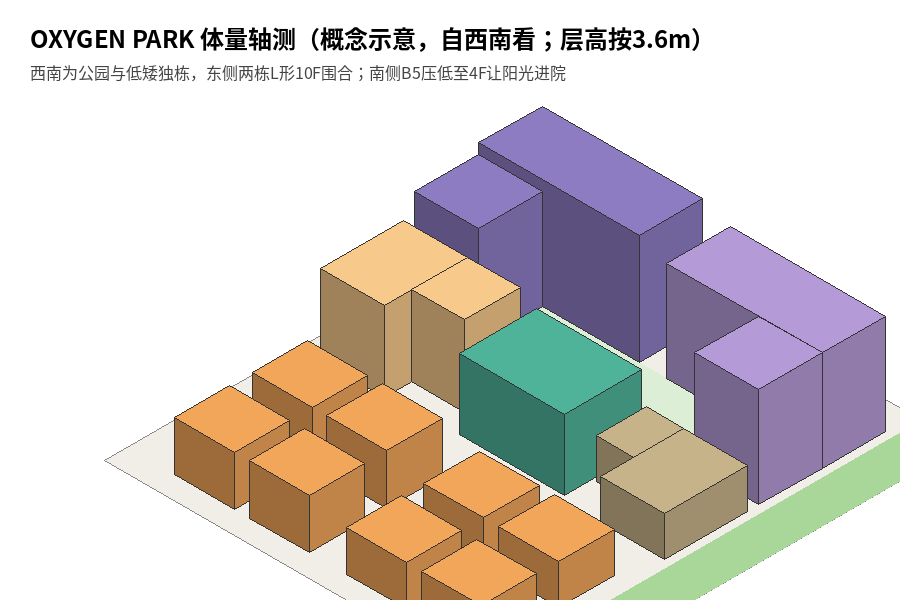
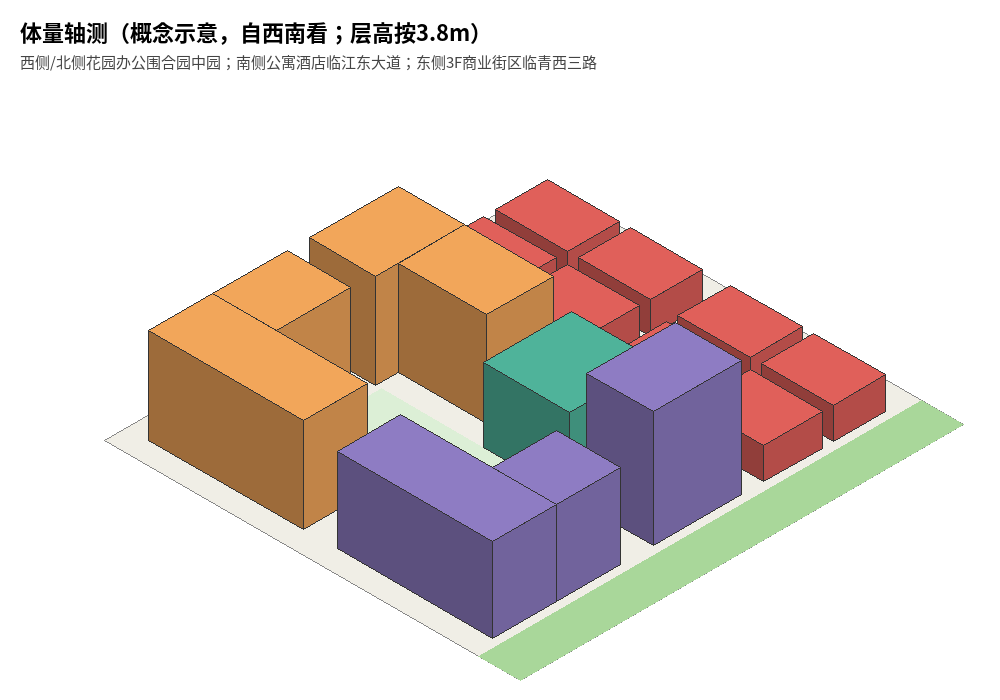
06 plan v2 (west-left orientation)

diff --git a/plan/index.html b/plan/index.html
@@ -1,27 +1,28 @@
-<!doctype html><html lang="zh"><meta charset="utf-8"><meta name="viewport" content="width=device-width"><title>OXYGEN PARK 围合总图</title>
-<style>body{font-family:-apple-system,"PingFang SC",sans-serif;max-width:1100px;margin:auto;padding:20px;line-height:1.7;color:#222}img{max-width:100%;border:1px solid #ddd}table{border-collapse:collapse;width:100%;font-size:14px}td,th{border:1px solid #ccc;padding:4px 6px;text-align:right}td:first-child,th:first-child,td:nth-child(2){text-align:left}.t{display:inline-block;font-size:12px;padding:0 6px;border-radius:3px;color:#fff;margin-right:4px}.f{background:#2b7}.i{background:#e80}.s{background:#36c}</style>
-<h1>OXYGEN PARK 氧气公园 · 围合总图（概念示意）</h1>
-<p><span class="t i">推断</span><b>结论：</b>按手稿方案二镜像（东侧两栋L形、中间三栋、西侧8栋花园独栋），计容 73,500㎡ 正好排下，基底 10,219㎡、建筑密度 42.6%（≤50%），可售 36,000㎡ = 49.0%（压在上限上，没有余量）。本图是体量估算，未校核限高、日照、退线、消防，不是报批方案。</p>
+<!doctype html><html lang="zh"><meta charset="utf-8"><meta name="viewport" content="width=device-width"><title>大江东地块 · 围合方案总图</title>
+<style>body{font-family:-apple-system,"PingFang SC",sans-serif;max-width:1100px;margin:auto;padding:20px;line-height:1.7;color:#222}img{max-width:100%;border:1px solid #ddd}table{border-collapse:collapse;width:100%;font-size:14px}td,th{border:1px solid #ccc;padding:4px 6px;text-align:right}td:first-child,th:first-child,td:nth-child(2),td:nth-child(3){text-align:left}.t{display:inline-block;font-size:12px;padding:0 6px;border-radius:3px;color:#fff;margin-right:4px}.f{background:#2b7}.i{background:#e80}.s{background:#36c}</style>
+<h1>大江东地块 · 围合方案总图（概念示意 v2）</h1>
+<p>v2 按手稿方案二原方向绘制（左西右东，北向上），替换上一版镜像图。主题口号待定。</p>
+<p><span class="t i">推断</span><b>结论：</b>西侧和北侧做花园办公围合，中间围出办公专用的园中园；公寓和酒店放在临江东大道的南侧，大堂和流线都独立；东侧沿青西三路做 3 层商业街区。计容 73,500㎡ 正好排下，基底 11,194㎡、建筑密度 46.6%（≤50%）。可售建议 33,000㎡ = 44.9%（上限是 49%）。本图是体量估算，限高、日照、退线、消防都没有校核。</p>
 <h2>一、总图</h2><img src="images/plan.png">
-<p>手稿朝向：纸面左=东（青西三路）、右=西（公园）；本图已左右镜像为北向上。退线均为假设：南 15m 绿带+3m、东 ≥10m、北 8m、西 ≥8m。</p>
+<p>退线均为假设：南 15m 绿带+3m，东 ≥10m（含商铺临停），北 8m，西 8m。</p>
 <h2>二、体量轴测</h2><img src="images/axo.png">
 <h2>三、分栋面积表（㎡）</h2>
-<table><tr><th>楼栋</th><th>层数 / 基底</th><th>业态分配</th><th>计容</th><th>可售</th></tr>
-<tr><td>D1–D8 花园独栋×8</td><td>西侧4栋5F、4栋4F；每栋 20×21.7m≈434</td><td>平层办公(可售·花园式独栋) 15,624</td><td>15,624</td><td>15,624</td></tr>
-<tr><td>B1 东北L</td><td>北翼11F / 西翼10F；1,863</td><td>沿街底商 2,000｜精品酒店 6,000（约120–150间，按40–50㎡/间）｜长租公寓 8,000｜产业服务/共享办公 3,964</td><td>19,964</td><td>2,000</td></tr>
-<tr><td>B2 东南L</td><td>10F；1,817</td><td>沿街底商 2,600｜自持超市 6,500｜使用权公寓 7,500｜产业服务 1,570</td><td>18,170</td><td>10,100</td></tr>
-<tr><td>B3 北侧Γ形</td><td>8F；1,070</td><td>平层办公(可售，约 1,070㎡/层，可按 800㎡ 整层或半层分割) 6,876｜产业服务 1,684</td><td>8,560</td><td>6,876</td></tr>
-<tr><td>B4 泛健康中心</td><td>7F；1,064</td><td>泛健康中心(目的地锚点，月子/养生朝向公园侧) 7,000｜配套 450</td><td>7,450</td><td>0</td></tr>
-<tr><td>B5 南侧L</td><td>4F；933</td><td>沿街底商 1,400｜配套 1,050｜产业服务 1,282</td><td>3,732</td><td>1,400</td></tr>
-<tr><th>合计</th><th>基底 10,219（密度 42.6%）</th><th></th><th>73,500</th><th>36,000（49.0%）</th></tr></table>
-<p>分业态核对：平层办公 15,624+6,876=22,500；使用权公寓 7,500；底商 2,000+2,600+1,400=6,000；产业服务 3,964+1,570+1,684+1,282=8,500；长租 8,000；酒店 6,000；泛健康 7,000；超市 6,500；配套 450+1,050=1,500；合计 73,500。用地按 160×150=24,000㎡ 计（约数）。</p>
-<h2>四、设计要点</h2><ul>
-<li>西侧公园人行主入口 → 东西向步行轴 → B4 泛健康节点 → 中央庭院 → 青西三路，月子/养生放在 B4 公园一侧。</li>
-<li>3 个车行口：青西三路北、南各一（右进右出接地库），江东大道辅路一处（需交管确认）。商铺临停：江东大道绿带边两处 + 公园边一处。</li>
-<li>青西三路一侧 B1/B2 首层和二层做 2F 展示型底商；南侧 15m 绿带 + "城市氧气屏"垂直绿化立面；B5 压到 4F，让阳光进庭院（借鉴 05 篇 BIG 西南角压低的做法）。</li>
-<li>屋顶跑道环：通过连桥把 B3–B1–B2–B5 屋顶串起来（示意，连桥是否计容待核）。</li></ul>
-<h2>五、江东大道是否走隧道</h2>
-<p><span class="t f">事实</span>江东大道提升改造一期中，蜀山隧道西起河庄大道西、东至青西三路，全长约 2.77km，双向 6 车道；青西三路设快速出入口；青西三路东—青六路西为地面快速路。来源：<a href="https://www.qiantang.gov.cn/art/2022/4/24/art_1658884_58938848.html">钱塘区政府 2022-04-24</a>、<a href="https://hwyst.hangzhou.com.cn/xwfb/content/2021-11/09/content_8091723.htm">杭州网 2021-11-09</a>；2022-06-26 通车：<a href="https://m.thepaper.cn/newsDetail_forward_18723930">澎湃</a>。</p>
-<p><span class="t i">推断</span>本地块在青西三路西侧、江东大道北侧，正好处在蜀山隧道东端。主线大概率在地下或正在爬升出洞，地面是辅路和匝道。洞口和匝道的具体位置没有查到，噪音的实际影响还<b>不确定</b>，要到现场看或调施工图。</p>
-<p><span class="t s">建议</span>现场确认匝道口位置：车行③如果落在匝道段就取消，改成青西三路两个口加北侧一个口。</p>
-<h2>六、缺口</h2><ul><li>没有正式红线、规划条件（限高、退线、日照）；北侧边界是道路还是邻地未知。</li><li>可售 49.0% 已经顶格，再调整只能往下走。</li><li>B3 每层 1,070㎡，和 800㎡ 整层的要求不完全一致，要按半层分割或者调进深。</li></ul>
+<table><tr><th>楼栋</th><th>层数 / 基底</th><th>业态</th><th>计容</th><th>建议可售</th></tr>
+<tr><td>W1 西北L·花园办公</td><td>9F / 1,909</td><td>平层办公 17,181（每层可分为 600–800㎡ 单元）</td><td>17,181</td><td>17,181</td></tr>
+<tr><td>M1 北侧Γ·平层办公</td><td>9F / 1,535</td><td>平层办公 5,319｜产业服务/共享办公 8,500</td><td>13,819</td><td>5,319</td></tr>
+<tr><td>M2 泛健康中心</td><td>7F / 1,000</td><td>泛健康 7,000（正对公园入口节点，月子/养生朝西侧公园）</td><td>7,000</td><td>0</td></tr>
+<tr><td>W2 西南L·酒店/使用权公寓</td><td>8F / 1,822</td><td>精品酒店 6,000（120–150 间）｜使用权公寓 7,500｜大堂底商 500｜配套 572</td><td>14,572</td><td>8,000</td></tr>
+<tr><td>M3 南侧·长租公寓</td><td>11F / 768</td><td>长租公寓 8,000｜配套 448</td><td>8,448</td><td>0</td></tr>
+<tr><td>E1–E8 商业街区×8</td><td>3F / 4,160（4×546+4×494）</td><td>超市 6,500（建议放 E1+E2，必要时连通）｜底商 5,500｜配套 480</td><td>12,480</td><td>2,500</td></tr>
+<tr><th>合计</th><th>基底 11,194｜密度 46.6%</th><th></th><th>73,500</th><th>33,000（44.9%）</th></tr></table>
+<p>分业态核对：平层办公 17,181+5,319=22,500；产业服务 8,500；泛健康 7,000；酒店 6,000；使用权公寓 7,500；长租 8,000；超市 6,500；底商 500+5,500=6,000；配套 572+448+480=1,500；合计 73,500。用地按 160×150=24,000㎡ 估算。</p>
+<p><span class="t s">建议</span>可售怎么压到 44.9%：平层办公 22,500 和使用权公寓 7,500 全部出售；底商 6,000 里只卖 3,000（青西三路临街小铺 2,500 + W2 大堂底商 500），超市旁和街区内部的 3,000 自持统一运营。这样留出约 4 个百分点的余量。如果全卖，可售是 36,000 = 49.0%，正好顶格。</p>
+<h2>四、公寓和办公怎么分开</h2><ul>
+<li><b>位置：</b>长租公寓（M3，11F）和酒店/使用权公寓（W2，8F）都放在南侧临江东大道一线。这一侧噪音大，本来就不适合做花园办公。办公占西侧临公园和北侧的楼。</li>
+<li><b>入口：</b>公寓和酒店的大堂开向南侧江东大道辅路（紫色箭头），车行③是公寓落客口。办公人员从西侧公园入口、东侧商业街和北侧地库进出。</li>
+<li><b>流线：</b>公寓的电动车、外卖、快递从车行③直接下地库，用独立的电梯厅上楼，不经过办公庭院。商业卸货走车行②。</li>
+<li><b>园中园：</b>W1、M1 和 W2 的北端围出办公专用庭院，南边用绿篱加门禁和公寓区隔开。</li>
+<li><b>泛健康：</b>M2 放在公园入口和内街交汇的节点上，办公、公寓和城市人群都能到达，是三类人流的公共接口。</li></ul>
+<h2>五、江东大道隧道</h2>
+<p><span class="t f">事实</span>蜀山隧道西起河庄大道西，东到青西三路，青西三路设有快速出入口（<a href="https://www.qiantang.gov.cn/art/2022/4/24/art_1658884_58938848.html">钱塘区政府 2022-04-24</a>）。<span class="t i">推断</span>本地块在隧道东端附近，地面主要是辅路和匝道。洞口和匝道的具体位置没有查到，需要现场确认；如果车行③正好落在匝道段，就要改位置。</p>
+<h2>六、缺口</h2><ul><li>没有正式红线和规划条件；北侧边界是道路还是邻地不清楚。</li><li>密度 46.6%，离 50% 只有 3.4 个百分点。如果要接近 40%，需要把东侧街区压缩或者整体加层。</li><li>W2 的西翼朝公园、景观最好，这里放了酒店/使用权公寓；如果甲方更看重办公，可以把 W2 西翼和 W1 对调。</li></ul>

diff --git a/index.html b/index.html
@@ -25,7 +25,7 @@ small{color:#888}a{color:#3a6ea5}
 <p class="sub">用地约 160×150m ≈ 2.4ha｜地上计容 73,000㎡｜可售目标 25% ≈ 18,250㎡</p>
 <p><span class="tag f">事实</span>有出处或测量所得 <span class="tag i">推断</span>由事实推出的判断 <span class="tag s">建议</span>我的主张，待论证</p>
 <p class="toc"><a href="#s1">一 四至</a><a href="#s2">二 周边</a><a href="#s3">三 SWOT</a><a href="#s4">四 业态</a><a href="#s5">五 可售</a><a href="#s6">六 案例</a><a href="#s7">七 总平</a><a href="#s8">八 缺口</a></p>
-<p class="toc"><b>延伸专题：</b><a href="cases/">04 可售型综合体案例集</a><a href="enclosure/">05 大围合案例（含BIG境外）</a><a href="plan/">06 OXYGEN PARK 总图</a></p>
+<p class="toc"><b>延伸专题：</b><a href="cases/">04 可售型综合体案例集</a><a href="enclosure/">05 大围合案例（含BIG境外）</a><a href="plan/">06 围合方案总图</a></p>
 <div class="lead"><b>结论先行</b><br>
 1. 这块地不该跟江东天街、宝龙正面抢商业，它的牌是“西侧贴着公园、东边 0.44km 就是东沙湖花海”。定位为<b>“公园边的社区生活+轻办公街区”</b>：社区医疗与日常商业补短板，酒店和人才公寓留住人，可售部分只卖市场还买得动的小产品。<br>
 2. 25% 可售的解法：<b>不卖大平层写字楼，卖“总价小、能自用、能出租”的东西</b>——面积 45–90㎡ 的小办公、带公园门头的 3–4 层企业独栋、60–150㎡ 的社区街铺。先租后售、带租约销售。<br>
